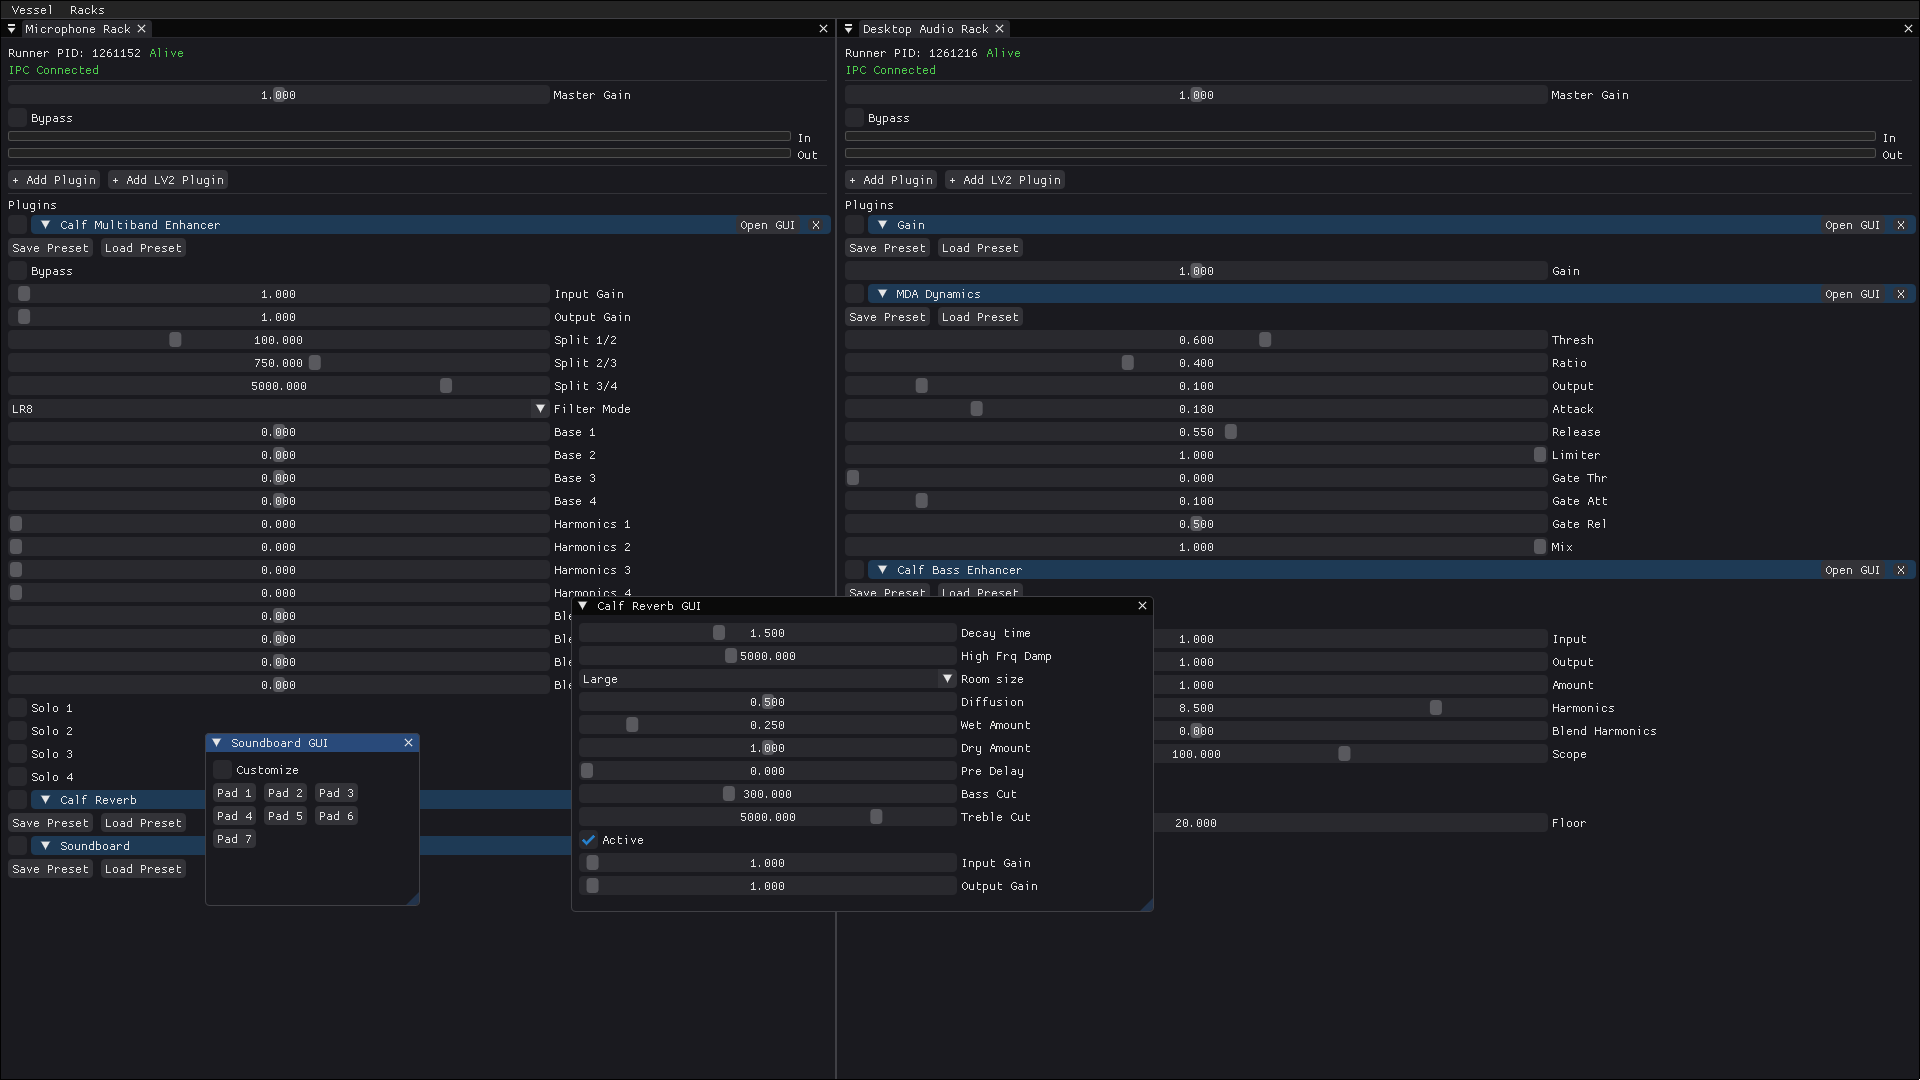
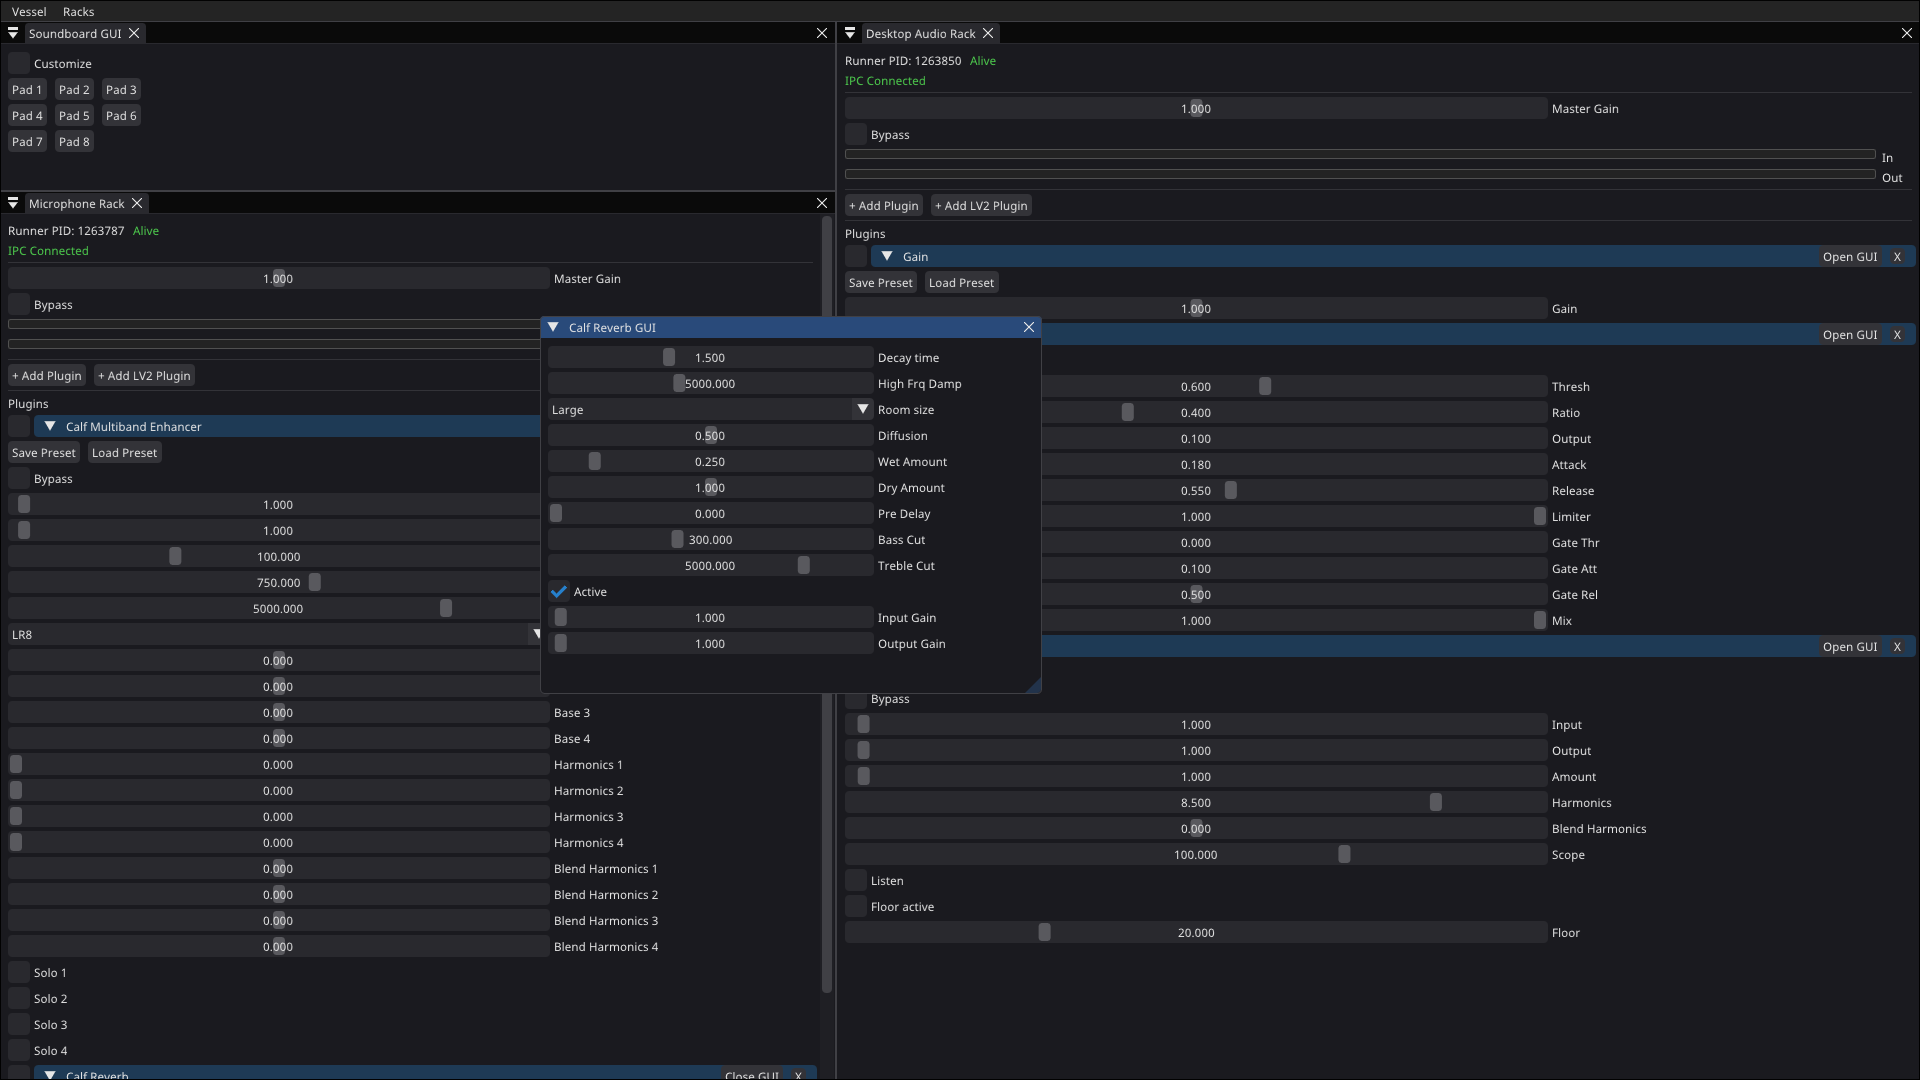
Add font support

diff --git a/src/gui/main.cpp b/src/gui/main.cpp
@@ -219,6 +219,120 @@ bool open_file_picker(bool save_mode, const char* title, const std::string& curr
     return run_pick_command(cmd, out_path);
 }
 
+bool command_exists(const char* command) {
+    if (!command || command[0] == '\0') {
+        return false;
+    }
+
+    const char* path_env = std::getenv("PATH");
+    if (!path_env) {
+        return false;
+    }
+
+    std::string path_list(path_env);
+    size_t start = 0;
+    while (start <= path_list.size()) {
+        const size_t end = path_list.find(':', start);
+        const std::string dir = (end == std::string::npos)
+            ? path_list.substr(start)
+            : path_list.substr(start, end - start);
+
+        if (!dir.empty()) {
+            const std::filesystem::path candidate = std::filesystem::path(dir) / command;
+            if (::access(candidate.c_str(), X_OK) == 0) {
+                return true;
+            }
+        }
+
+        if (end == std::string::npos) {
+            break;
+        }
+        start = end + 1;
+    }
+
+    return false;
+}
+
+std::string expand_home_path(const std::string& path) {
+    if (path.empty() || path[0] != '~') {
+        return path;
+    }
+
+    const char* home = std::getenv("HOME");
+    if (!home || home[0] == '\0') {
+        return path;
+    }
+
+    if (path.size() == 1) {
+        return std::string(home);
+    }
+    if (path[1] == '/') {
+        return std::string(home) + path.substr(1);
+    }
+
+    return path;
+}
+
+std::string detect_font_path_via_fc_match() {
+    std::string out;
+    if (!run_pick_command("fc-match -f '%{file}\\n' 'sans-serif' 2>/dev/null", out)) {
+        return "";
+    }
+
+    if (out.empty() || !std::filesystem::exists(out)) {
+        return "";
+    }
+
+    return out;
+}
+
+std::string detect_inter_font_path() {
+    const std::array<const char*, 12> candidates = {
+        "~/.local/share/fonts/Inter-Regular.ttf",
+        "~/.local/share/fonts/Inter Variable.ttf",
+        "~/.fonts/Inter-Regular.ttf",
+        "~/.fonts/Inter Variable.ttf",
+        "/usr/local/share/fonts/Inter-Regular.ttf",
+        "/usr/local/share/fonts/Inter Variable.ttf",
+        "/usr/share/fonts/TTF/Inter-Regular.ttf",
+        "/usr/share/fonts/TTF/InterVariable.ttf",
+        "/usr/share/fonts/TTF/Inter Variable.ttf",
+        "/usr/share/fonts/truetype/inter/Inter-Regular.ttf",
+        "/usr/share/fonts/inter/Inter-Regular.ttf",
+        "/usr/share/fonts/inter/InterVariable.ttf",
+    };
+
+    for (const char* raw_path : candidates) {
+        const std::string path = expand_home_path(raw_path ? raw_path : "");
+        if (!path.empty() && std::filesystem::exists(path)) {
+            return path;
+        }
+    }
+
+    return "";
+}
+
+void load_ui_font(ImGuiIO& io) {
+    constexpr float kFontSizePx = 16.0f;
+
+    bool loaded = false;
+    if (command_exists("fc-match")) {
+        const std::string font_path = detect_font_path_via_fc_match();
+        if (!font_path.empty()) {
+            loaded = io.Fonts->AddFontFromFileTTF(font_path.c_str(), kFontSizePx) != nullptr;
+        }
+    } else {
+        const std::string inter_path = detect_inter_font_path();
+        if (!inter_path.empty()) {
+            loaded = io.Fonts->AddFontFromFileTTF(inter_path.c_str(), kFontSizePx) != nullptr;
+        }
+    }
+
+    if (!loaded) {
+        io.Fonts->AddFontDefault();
+    }
+}
+
 void try_connect_socket(Rack& rack) {
     if (rack.sock_fd >= 0) return;
 
@@ -814,6 +928,7 @@ int main(int, char* argv[]) {
     ImGuiIO& io = ImGui::GetIO();
     io.ConfigFlags |= ImGuiConfigFlags_DockingEnable;
     io.ConfigFlags |= ImGuiConfigFlags_ViewportsEnable;
+    load_ui_font(io);
 
     ImGui_ImplGlfw_InitForOpenGL(window, true);
     ImGui_ImplOpenGL3_Init("#version 130");

diff --git a/README.md b/README.md
@@ -11,6 +11,8 @@ The UI talks to runners over Unix sockets, while each runner appears as a PipeWi
 ![Vessel UI](docs/image.png)
 *Screenshot of Vessel UI with two racks and some random LV2 plugins loaded, as well as a few built-in plugins (Gain, Soundboard).*
 
+
+
 ## Contributing & Usage
 This project is licensed under MIT. If you use this code in your own project 
 or build a plugin for it, I'd love to hear about it! 
